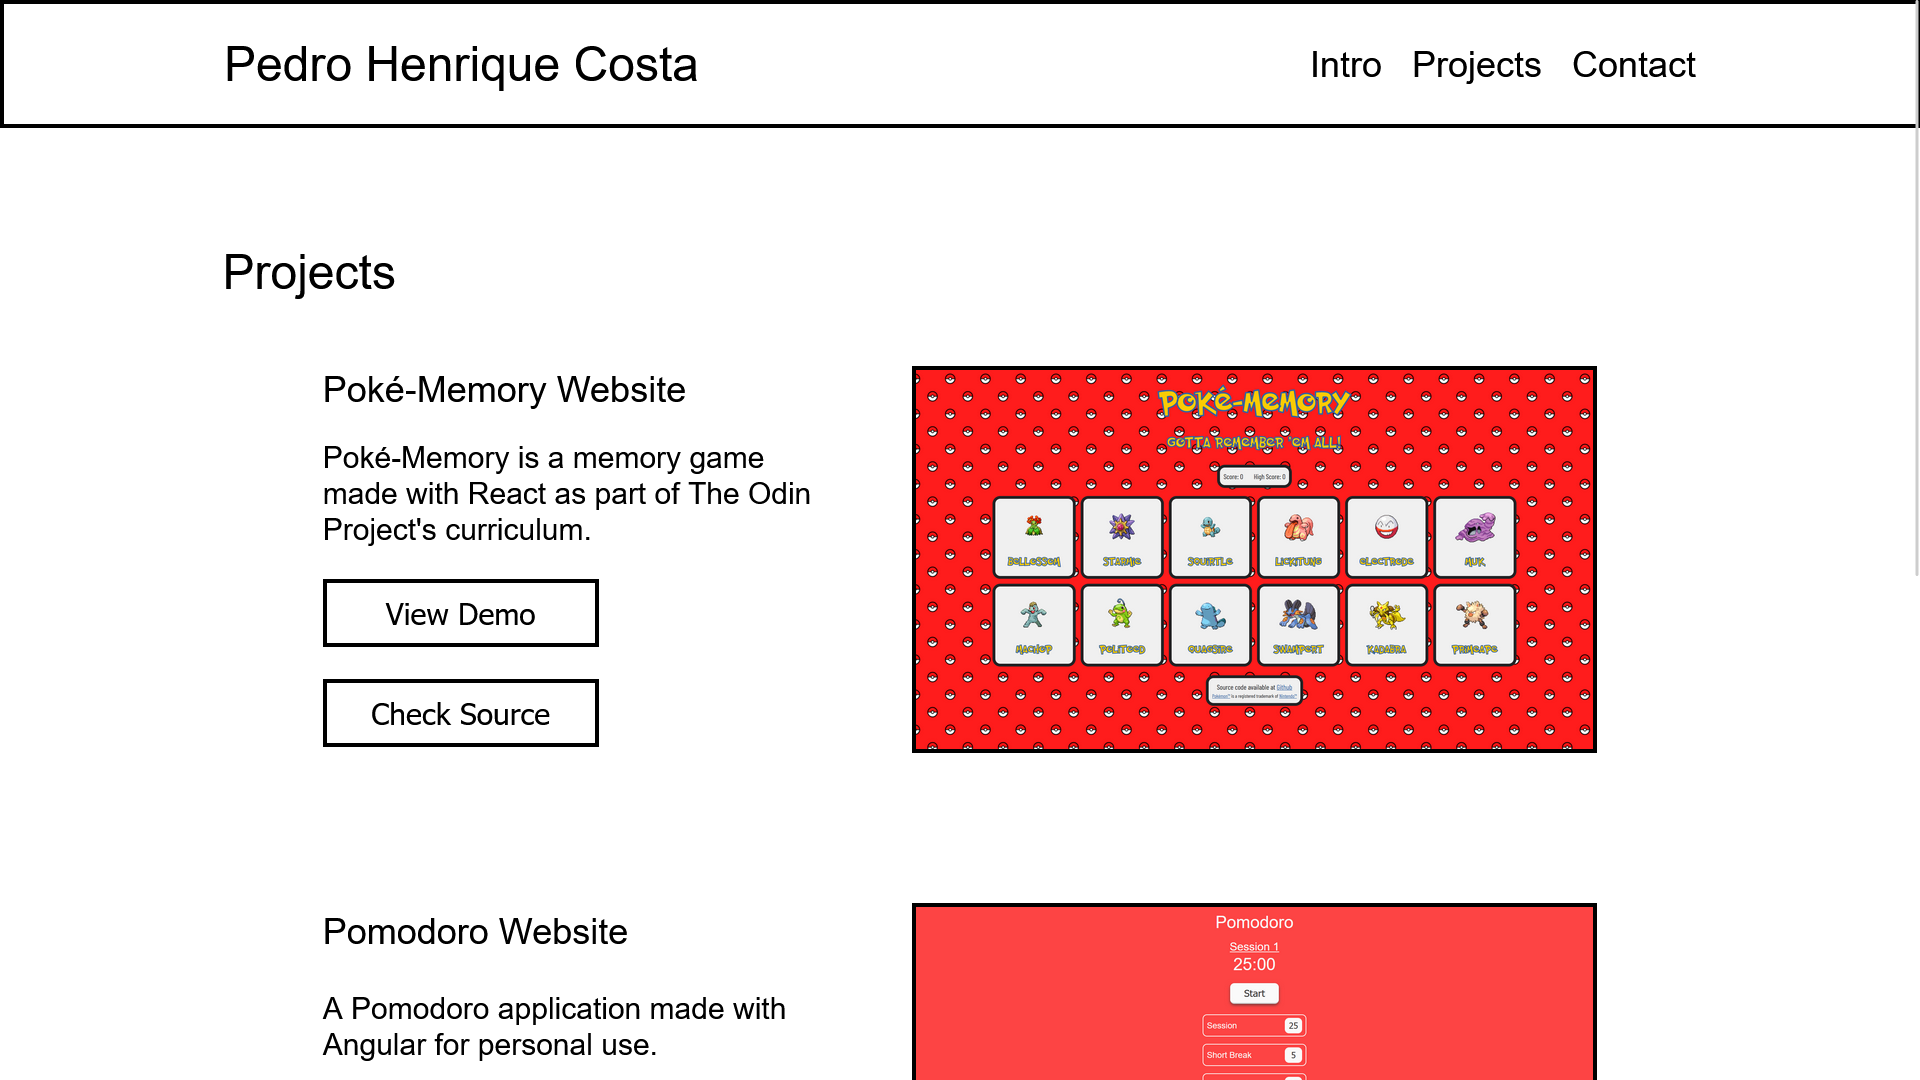
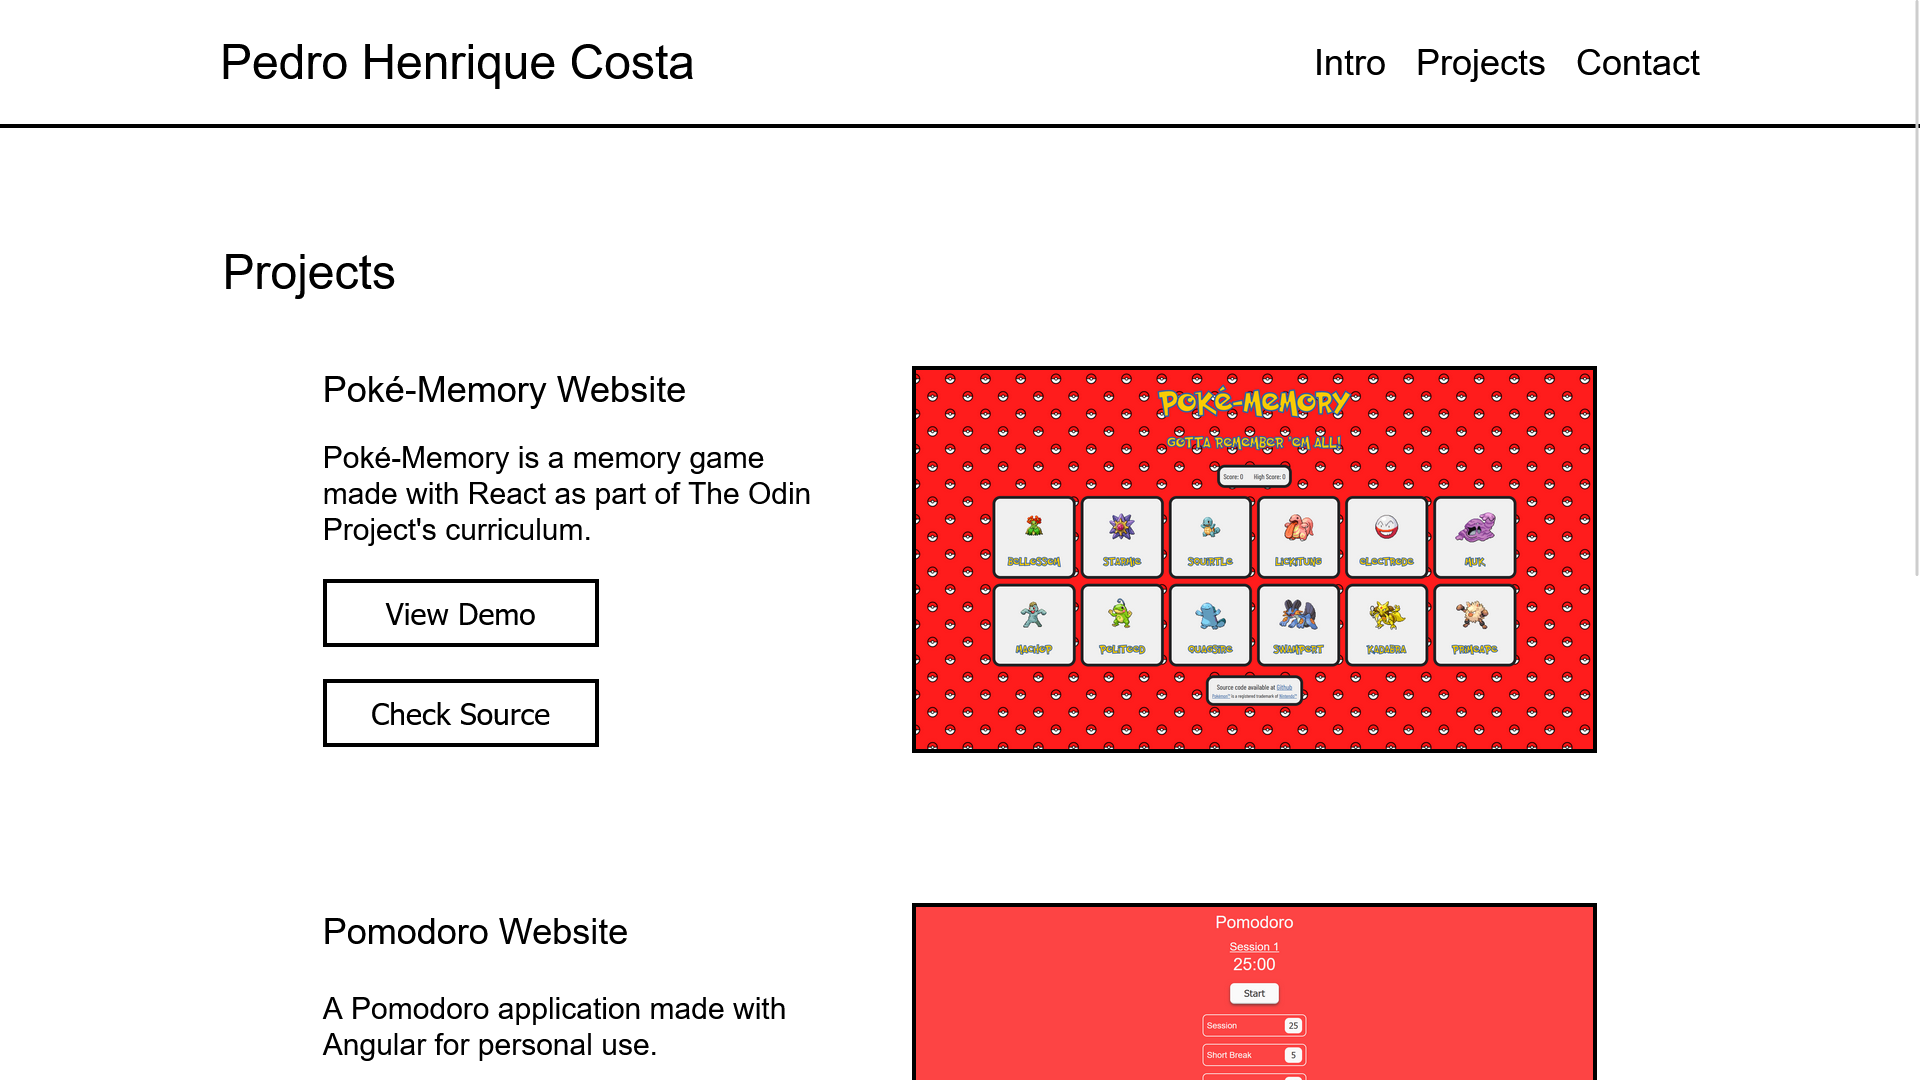
Remove side borders in nav bar and footer
Side borders would sometimes seem like a bug, so they were removed.

Changed region(s): [[0.0, 0.0, 1.0, 0.0917]]

diff --git a/src/app/app.component.css b/src/app/app.component.css
@@ -12,7 +12,7 @@
     width: 1920px;
     height: 128px;
     box-sizing: border-box;
-    border: 4px solid black;
+    border-bottom: 4px solid black;
     padding: 0px 220px;
     background-color: white;
 }
@@ -41,5 +41,5 @@
     width: 1920px;
     height: 84px;
     box-sizing: border-box;
-    border: 4px solid black;
+    border-top: 4px solid black;
 }
